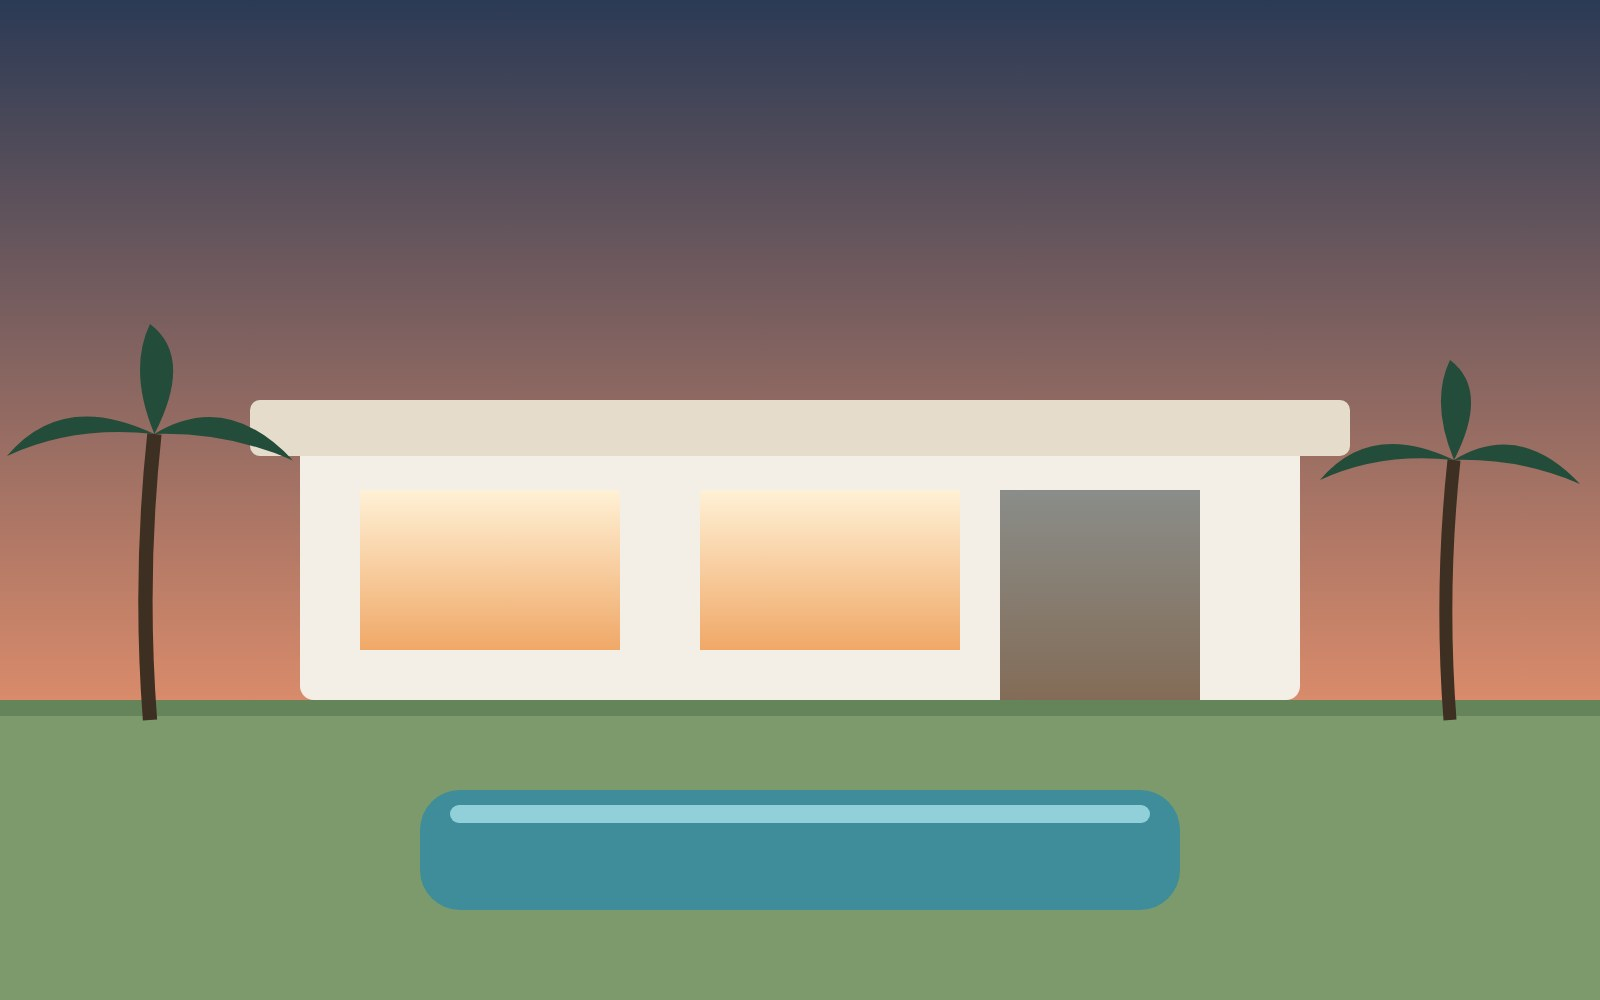
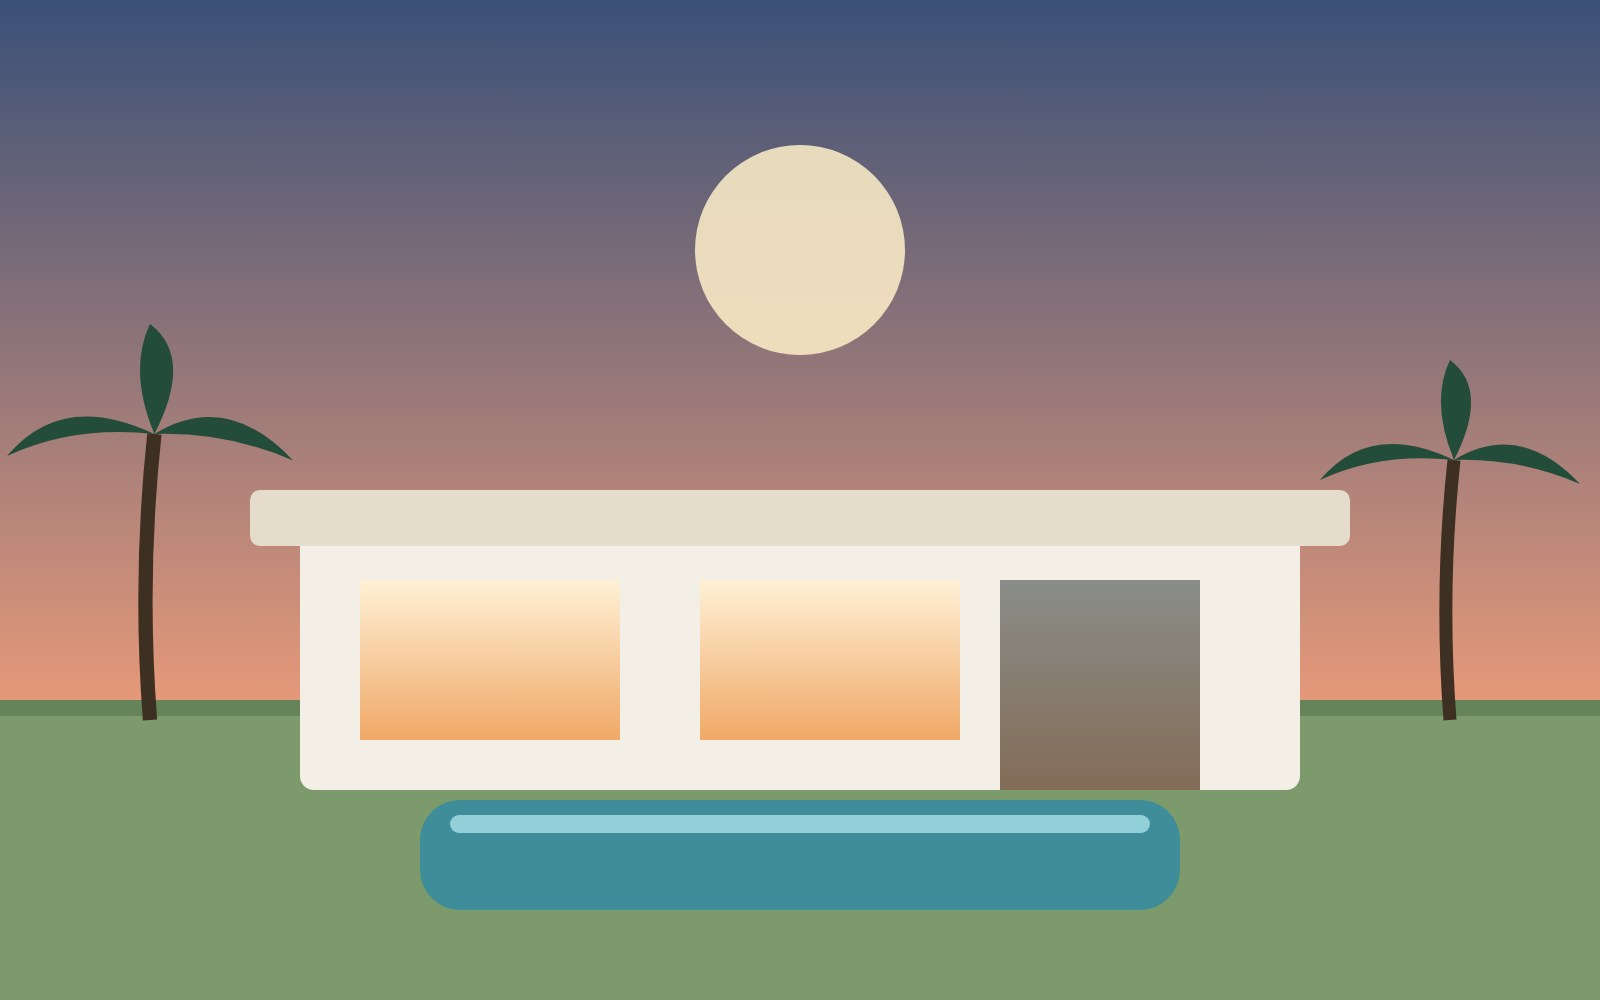
Azaiba Gardens: fix phone hero band and headline overlap
- Dream villa concept: house lowered so it clears the headline on desktop
- Sun moved to the centre so it fills the top of the phone hero
- Sky brightened so the top of the hero no longer reads as an empty band

Claude-Session: https://claude.ai/code/session_0149dNw39SKSM3ExX7t523t8

diff --git a/tools/concept_art.py b/tools/concept_art.py
@@ -86,17 +86,20 @@ def flat(kind):
 def dream(kind):
     """Dusk-lit dream homes: a villa with a pool, a terrace penthouse, a family lounge."""
     if kind == "villa":
-        sky = ("#2b3a55", "#d98b6b", "#f6c89b")
-        body = ('<rect x="0" y="700" width="1600" height="300" fill="#7d9a6c"/>'
+        sky = ("#3a5078", "#e5997a", "#fbd9a6")
+        body = ('<circle cx="800" cy="250" r="105" fill="#fff0c9" opacity="0.85"/>'
+                '<rect x="0" y="700" width="1600" height="300" fill="#7d9a6c"/>'
                 '<rect x="0" y="700" width="1600" height="16" fill="#66845a"/>'
+                '<g transform="translate(0,90)">'
                 '<rect x="300" y="440" width="1000" height="260" rx="14" fill="#f4efe6"/>'
                 '<rect x="250" y="400" width="1100" height="56" rx="10" fill="#e6dccb"/>'
                 '<rect x="360" y="490" width="260" height="160" fill="url(#glow)"/>'
                 '<rect x="700" y="490" width="260" height="160" fill="url(#glow)"/>'
                 '<rect x="1000" y="490" width="200" height="210" fill="#2a3b4a"/>'
                 '<rect x="1000" y="490" width="200" height="210" fill="url(#glow)" opacity="0.45"/>'
-                '<rect x="420" y="790" width="760" height="120" rx="40" fill="#3f8c9b"/>'
-                '<rect x="450" y="805" width="700" height="18" rx="9" fill="#a8e1e8" opacity="0.8"/>')
+                '</g>'
+                '<rect x="420" y="800" width="760" height="110" rx="40" fill="#3f8c9b"/>'
+                '<rect x="450" y="815" width="700" height="18" rx="9" fill="#a8e1e8" opacity="0.8"/>')
         palms = ''.join(f'<g transform="translate({x},720) scale({sc})"><path d="M0,0 Q-10,-130 4,-260" stroke="#3d2f22" stroke-width="13" fill="none"/><path d="M4,-260 Q-80,-300 -130,-240 Q-70,-268 4,-260 Q70,-300 130,-236 Q70,-262 4,-260 Q40,-330 0,-360 Q-20,-318 4,-260" fill="#244c3a"/></g>' for x, sc in [(150, 1.1), (1450, 1.0)])
     elif kind == "terrace":
         sky = ("#1d2b44", "#c77d86", "#f2c48d")
